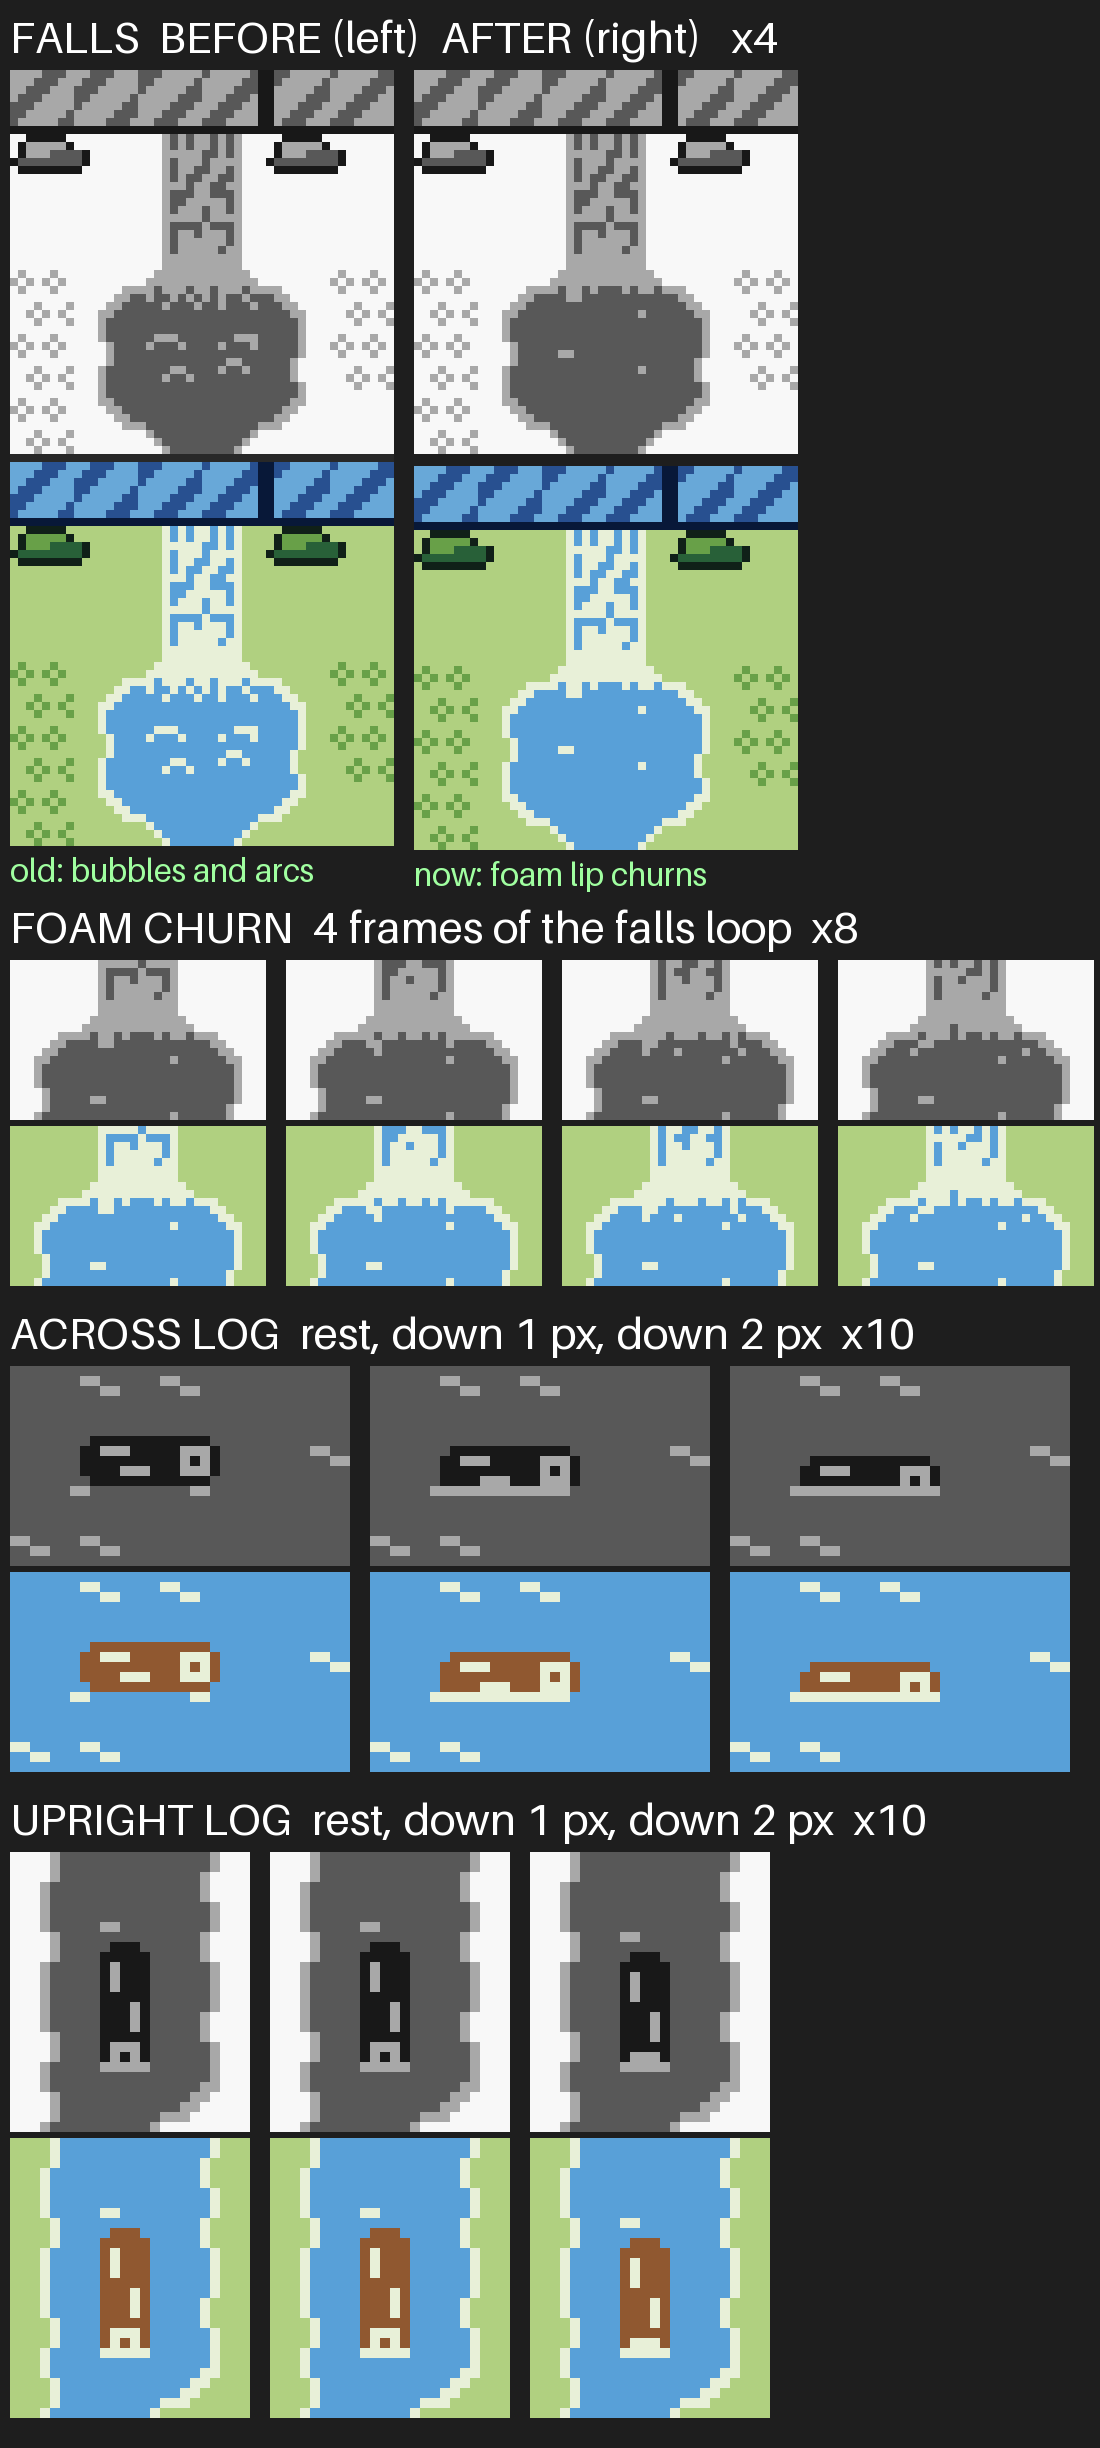
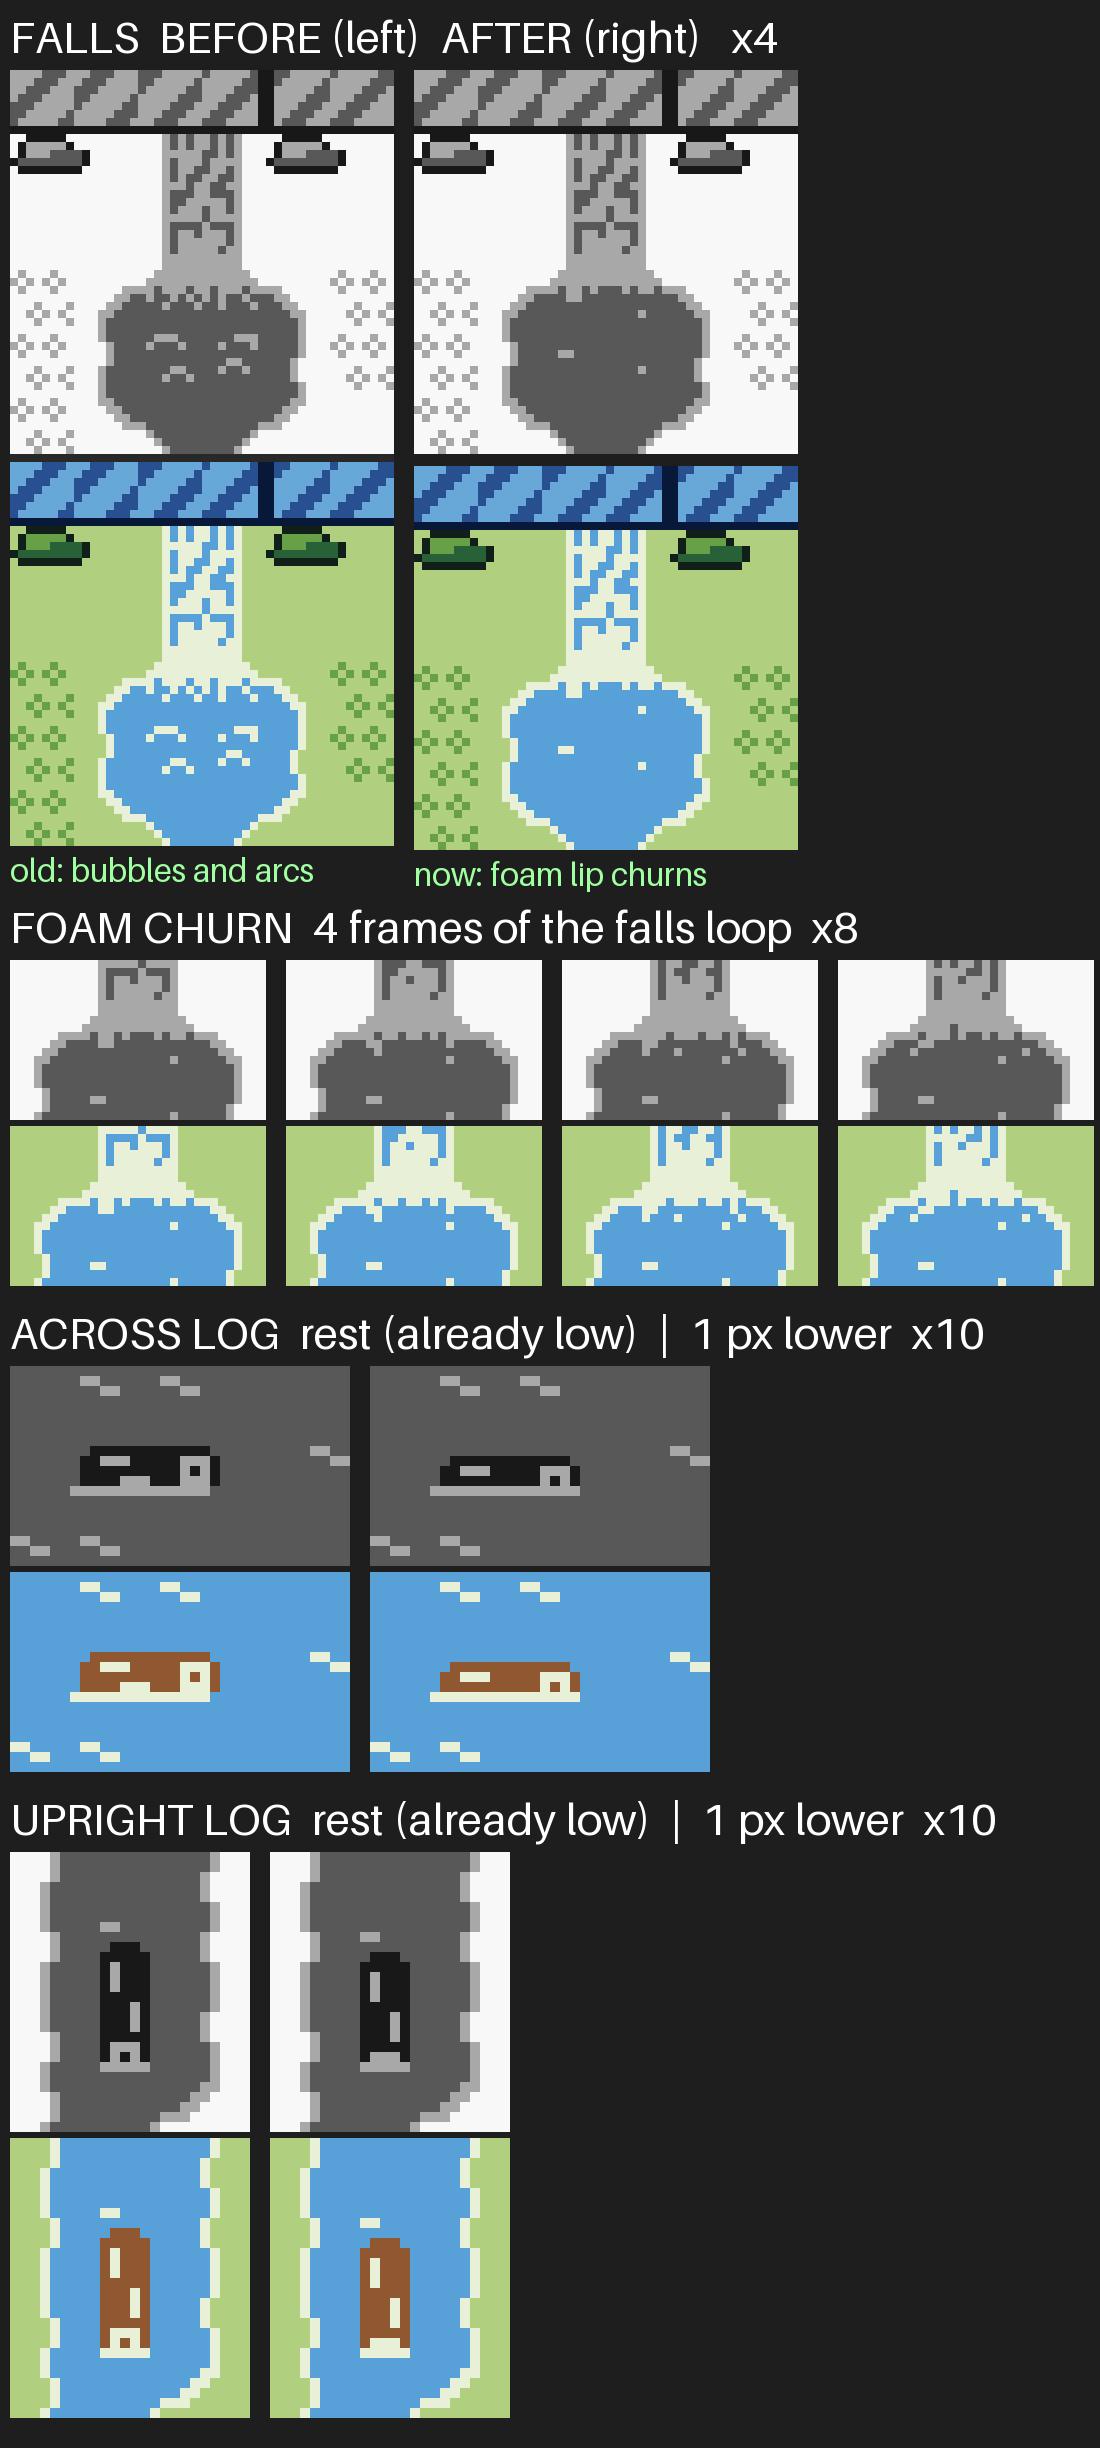
Logs: always low in the water, bobbing steadily
The rest pose of a kept log is now the lowered picture (waterline hides its
bottom, 1 px foam line), a new static map tile; the bob is a continuous
108-frame cycle between it and 1 px lower, never above rest, own phase per
log. Upright logs the same. Re-rendered 09_logs.gif, contact sheet, NOTES and
the before/after sheet. Proposal only: no assets/, engine or goldens.

Claude-Session: https://claude.ai/code/session_01WXumg9pvGTKbXyU3qBciuY

diff --git a/docs/dev/proposals/smap_anim/items.py b/docs/dev/proposals/smap_anim/items.py
@@ -327,13 +327,12 @@ def cows(a5):
 
 
 # -------------------------------------------------------------------------------------------------------------------------------------------------
-# 9  LOGS SINK (owner: "fewer logs ... bobbling logs should actually seem to sink a bit in the water" / "the logs should lower, rather than the water just raise against them. The animation
-#    needs to be like a combination of the last revision and this one."): 6 of the 12 v1 logs stay, spread along the river (3 across, 3 upright, y cell 20 to 68); the other 6 are plain water
-#    (flat WF tile, no new art).  A kept log LOWERS 1 px, then 2 px, with its whole picture (its top edge visibly drops), while the waterline stays where it is: whatever falls below
-#    the waterline is hidden by water and the row at the waterline is a 1 px foam line.  Across logs: waterline = row 6 of the cell (the rows below it are water; the ripple dashes
-#    at the log's ends fold into the foam line); upright logs: waterline = the last row of the bottom cell (row 15), so nothing is written into the cell below.  Then it rises back.
-#    Across logs rewrite both cells, upright logs both cells.  The floating logs sit on flat water, so their cells carry no glints to combine.  Step 18 frames; rest 5 steps, down 1 px,
-#    down 2 px (held), up 1 px, rest: a 180-frame loop.  Three phase groups (one log each).
+# 9  LOGS BOB, LOW IN THE WATER (owner, last words: "the log should always be submerged partially and bobbing slightly down. The current animation looks like an invisible hand is dipping it
+#    in the water occasionally as it floats above."): 6 of the 12 v1 logs stay, spread along the river (3 across, 3 upright, y cell 20 to 68); the other 6 are plain water (flat WF tile,
+#    no new art).  The REST pose of a kept log is already low: its whole picture is 1 px down, the waterline stays where it was, what is below it is water, and the row at the waterline
+#    is a 1 px foam line (these S1 tiles are the new static map tiles of the 6 logs).  The bob is a steady cycle between that and 1 px lower (S2), never above the rest pose: 3 steps at
+#    rest, 3 steps low, 18 frames a step, 108 frames (1.8 s) a cycle.  Across logs: waterline = row 6 of the cell, upright logs: the last row of the bottom cell, so nothing is written
+#    below.  Both cells of a log change.  Each log keeps its own phase.  The floating logs sit on flat water, so their cells carry no glints to combine.
 LOG_HL = T("22222222", "22233333", "22331113", "22333333", "22333311", "22233333", "21122222", "22222222")
 LOG_HR = T("22222222", "33333332", "33331113", "33331313", "13331113", "33333332", "22222112", "22222222")
 LOG_HL_S1 = T("22222222", "22222222", "22233333", "22331113", "22333333", "22333311", "21111111", "22222222")
@@ -350,9 +349,15 @@ LOGS_H_ALL = [(48, 33), (54, 33), (57, 32), (42, 52), (43, 57), (42, 65), (44, 6
 LOGS_V_ALL = [(46, 20), (46, 29), (46, 36), (45, 43), (45, 46)]
 LOGS_H = {"A": [(42, 52)], "B": [(43, 57)], "C": [(44, 68)]}                 # kept across logs (left cell)
 LOGS_V = {"A": [(46, 20)], "B": [(46, 29)], "C": [(45, 43)]}                 # kept upright logs (top cell)
-LOG_PH_H = {"A": 171, "B": 36, "C": 51}
-LOG_PH_V = {"A": 156, "B": 57, "C": 168}
-LOG_SEQ = [0, 0, 0, 0, 0, 1, 2, 2, 1, 0]
+LOG_PH_H = {"A": 39, "B": 36, "C": 75}
+LOG_PH_V = {"A": 6, "B": 24, "C": 3}
+LOG_SEQ = [0, 0, 0, 1, 1, 1]
+
+
+def put_tile(a5, cx, cy, tile):
+    for j, r in enumerate(tile):
+        for i, c in enumerate(r):
+            a5.px[cy * 8 + j, cx * 8 + i] = int(c)
 
 
 def logs(a5):
@@ -377,13 +382,17 @@ def logs(a5):
     for g, lst in LOGS_H.items():
         (x, y), = lst
         assert a5.tile(x, y) == LOG_HL and a5.tile(x + 1, y) == LOG_HR, (x, y)
-        an.append(TileAnim(f"H{g}_L", (x, y), [LOG_HL_S1, LOG_HL_S2], LOG_SEQ, 18, LOG_PH_H[g], only_at=True))
-        an.append(TileAnim(f"H{g}_R", (x + 1, y), [LOG_HR_S1, LOG_HR_S2], LOG_SEQ, 18, LOG_PH_H[g], only_at=True))
+        put_tile(a5, x, y, LOG_HL_S1)                                               # NEW STATIC ART: the log already sits low
+        put_tile(a5, x + 1, y, LOG_HR_S1)
+        an.append(TileAnim(f"H{g}_L", (x, y), [LOG_HL_S2], LOG_SEQ, 18, LOG_PH_H[g], only_at=True))
+        an.append(TileAnim(f"H{g}_R", (x + 1, y), [LOG_HR_S2], LOG_SEQ, 18, LOG_PH_H[g], only_at=True))
     for g, lst in LOGS_V.items():
         (x, y), = lst
         assert a5.tile(x, y) == LOG_VT and a5.tile(x, y + 1) == LOG_VB, (x, y)
-        an.append(TileAnim(f"V{g}_T", (x, y), [LOG_VT_S1, LOG_VT_S2], LOG_SEQ, 18, LOG_PH_V[g], only_at=True))
-        an.append(TileAnim(f"V{g}_B", (x, y + 1), [LOG_VB_S1, LOG_VB_S2], LOG_SEQ, 18, LOG_PH_V[g], only_at=True))
+        put_tile(a5, x, y, LOG_VT_S1)
+        put_tile(a5, x, y + 1, LOG_VB_S1)
+        an.append(TileAnim(f"V{g}_T", (x, y), [LOG_VT_S2], LOG_SEQ, 18, LOG_PH_V[g], only_at=True))
+        an.append(TileAnim(f"V{g}_B", (x, y + 1), [LOG_VB_S2], LOG_SEQ, 18, LOG_PH_V[g], only_at=True))
     return Item("09_logs", "Floating logs sinking (6 logs, three phase groups)", a5, (304, 320), an, focus=(328, 340, 376, 472))
 
 

diff --git a/docs/dev/proposals/smap_anim/NOTES.md b/docs/dev/proposals/smap_anim/NOTES.md
@@ -17,7 +17,7 @@ Third pass (owner: "the water glints could be more subtle. Also, the waterfall s
 
 Fourth and fifth pass (owner: "can we make the logs bob in the water? New glints are better." / "very subtle water please." / "the waterfall at this point reads more like river than a falls. bottom probably needs foam." / "Fewer logs in the river please. bobbling logs should actually seem to sink a bit in the water, not just shift position." / "waterfall looks better, but bubbles in the pond under it are unneeded. replace with glints."):
 - Water: VERY SUBTLE (`01_water.gif`; subtle dropped from the build, its tiles stay typed in `items.py`).
-- Logs (`09_logs.gif`): 6 of the 12 logs stay, spread along the river: upright (cell, top) (46,20), (46,29), (45,43); across (left cell) (42,52), (43,57), (44,68). Removed, now plain water (the flat water tile, no new art): across (48,33), (54,33), (57,32), (42,65); upright (46,36), (45,46). Owner, last word: the log lowers AND the water hides it. A kept log moves down 1 px, then 2 px as a whole picture (its top edge visibly drops) while the waterline stays: the rows below the waterline are water, the waterline row is a 1 px foam line, and the ripple dashes at the log ends fold into it. Across logs: waterline = row 6 of the cell; upright logs: waterline = the last row of the bottom cell, so nothing is written below. Then it rises back. Both cells of a log change. Each log is its own phase group; step 18 frames, rest 5 steps; phases picked so no two logs step in the same frame. Cost +8 images, +8 tile ids; logs alone peak 2 tiles, 32 B.
+- Logs (`09_logs.gif`): 6 of the 12 logs stay, spread along the river: upright (cell, top) (46,20), (46,29), (45,43); across (left cell) (42,52), (43,57), (44,68). Removed, now plain water (the flat water tile, no new art): across (48,33), (54,33), (57,32), (42,65); upright (46,36), (45,46). Owner, last word: "the log should always be submerged partially and bobbing slightly down. The current animation looks like an invisible hand is dipping it in the water occasionally as it floats above." So the REST pose is already low: the whole log picture 1 px down, the waterline unchanged, what is below it is water, the waterline row is a 1 px foam line (the ripple dashes at the ends fold into it); these tiles are the new static map tiles of the 6 logs. The bob is a continuous cycle between that and 1 px lower, never above the rest pose: 3 steps at rest, 3 steps low, 18 frames a step, 1.8 s a cycle (1.1 changes a second per log). Across logs: waterline = row 6 of the cell; upright logs: the last row of the bottom cell, so nothing is written below. Both cells of a log change; each log keeps its own phase (picked so no two logs step in the same frame). Cost +4 images net (4 static replace the 4 original log tiles, 4 new), +8 tile ids; logs alone peak 2 tiles (3 with a water step), 48 B.
 - Falls (`02_falls.gif`, `before_after_falls_logs.png`): environments.md 11, "Waterfalls: 1-px vertical streaks of a lighter shade at varied lengths and speeds, edges that jitter by 1 px, and an impact of sparkle pixels plus ripple rings." and "Droplets and foam: compact at rest, a stretched streak mid-flight, compact on landing." Falls are foam (index 1) with water streaks (index 2) between, clearly lighter than the river; the pool top keeps the foam lip (3 rows), the bubbles, spray and my splash ring are gone, and the pool cells carry the very subtle glints (a dash in the left foot cell, a pixel in the right, same pace as WA and WB; the cells below are WA and WB themselves). Kept pixel-exact (asserted in `items.py`): bank rims and land on every falls row and in the pool cells, and pool row 7. One speed (3 rows a step) to close the loop in 4 frames, not "varied speeds": a cost choice. NEW STATIC ART: 4 falls tiles + 2 pool tiles. FOAM CHURN (owner): the lip (rows 0-2) keeps the bank rim and land; its ragged edge (row 3) swells and relaxes by 1 px over 4 frames (the 36-frame falls loop, 9 frames a step, 6 frames after the falls step) and a few specks drift outward and down and dissolve. DMG: the lip is index 1, the lightest shade the water palette has (index 0 is the grass colour on Color, so a lighter lip would turn green); it is 168 on a pool of 88, so it is 3 rows deep and ragged to show. Cost: the lip frames multiply with the 3 glint states that occur (the glints stay exact, 30-frame pace): 10 and 12 images for the two foot cells. Cheaper option: freeze the foot-cell glints (the pond below still glints): 3 lip frames + rest per cell, about 6 images instead of 22.
 - Splash arcs: the two foam arcs below the lip (they read as bubbles or eyes) are replaced by the existing water tiles WA and WB: plain water that glints with the rest of the river, no new image, no new tile id. This changes two approved static A5 map cells, (46,8) and (47,8), by the owner's word.
 
@@ -38,8 +38,8 @@ Frames = distinct images of one tile. "Tiles / step" = tile images rewritten in 
 | 6b | Factory, two stacks | 4 | up to 3 | +15 | 15 | unique; 2 new tile ids | 48 B max |
 | 6c | Igloo (option 1) chimney smoke, 1 cell | 4 | 1 | +3 | 15 | unique | 16 B |
 | 7 | Cow tails, pasture cow and one more (milk bar 4i) | 3 | 1 | +6 (2 are the tail at rest) | 12, rests 36 of 72 | unique; 2 new tile ids | 16 B |
-| 9 | Floating logs lower: 6 logs stay (3 across, 3 upright); the whole log picture moves down 1 px then 2 px, the waterline stays, what is below it is water with a 1 px foam line, then it rises; 6 logs removed (plain water) | 3 (rest, 1 px, 2 px) | across log 2, upright log 2 | +8 (4 per kind), 8 new tile ids | 18 per step; rest 5 steps, 1 px, 2 px held, 1 px: 180-frame loop | per log | 32 B |
-| | Total | | | **about 104 images** (water 4, falls and foot 38 incl. 6 replacing static map tiles, logs 8, the rest as before) | | 14 new tile ids (lodge 2, factory 2, cows 2, logs 8) | |
+| 9 | Floating logs, always low in the water: 6 logs stay (3 across, 3 upright), their REST pose is the old "1 px down" picture (waterline hides the bottom, 1 px foam line), and they bob steadily between it and 1 px lower; 6 logs removed (plain water) | 2 (rest, 1 px lower) | across log 2, upright log 2 | +4 net (4 static S1 replace the 4 original log tiles, 4 S2 are new), 8 new tile ids | 18 per step; 3 steps at rest, 3 low: a 108-frame (1.8 s) cycle | per log | 32 B |
+| | Total | | | **about 100 images** (water 4, falls and foot 38 incl. 6 replacing static map tiles, logs 4 net, the rest as before) | | 14 new tile ids (lodge 2, factory 2, cows 2, logs 8) | |
 
 Dropped from the first table: 8b stadium lamps, pole pennants. 8a mast lamp is merged into 5. Cheap and shared: 1, 4a (P, Q).
 
@@ -64,9 +64,9 @@ Peak tiles written in one video frame, average bytes per frame, per view (phases
 | airbase: dish + lamp (one frame set) | 1 | 16 | 1.3 |
 | stadium: flag | 2 | 32 | 3.6 |
 | igloo: smoke + falls + water | 6 | 96 | 12.4 |
-| river scrolled down: falls + one upright log + water | 5 | 80 | 12.1 |
-| logs: three logs, all groups, + water | 2 | 32 | 5.0 |
-| everything at once (cannot happen) | 19 | 304 | 38.8 |
+| river scrolled down: falls + one upright log + water | 5 | 80 | 12.0 |
+| logs: three logs, all groups, + water | 3 | 48 | 4.3 |
+| everything at once (cannot happen) | 21 | 336 | 38.0 |
 
 Assumed for the programmer to confirm: about 10 tiles (160 B) fit one VBlank. The worst real view (igloo, 6 tiles, 96 B) is about 60% of that; averages are about a tenth. Steps are never aligned on purpose, and any step can slip a frame or two if scroll streaming needs the VBlank. Color writes the same tile bytes to bank 0; attributes do not change except the 2 lodge puff cells.
 
